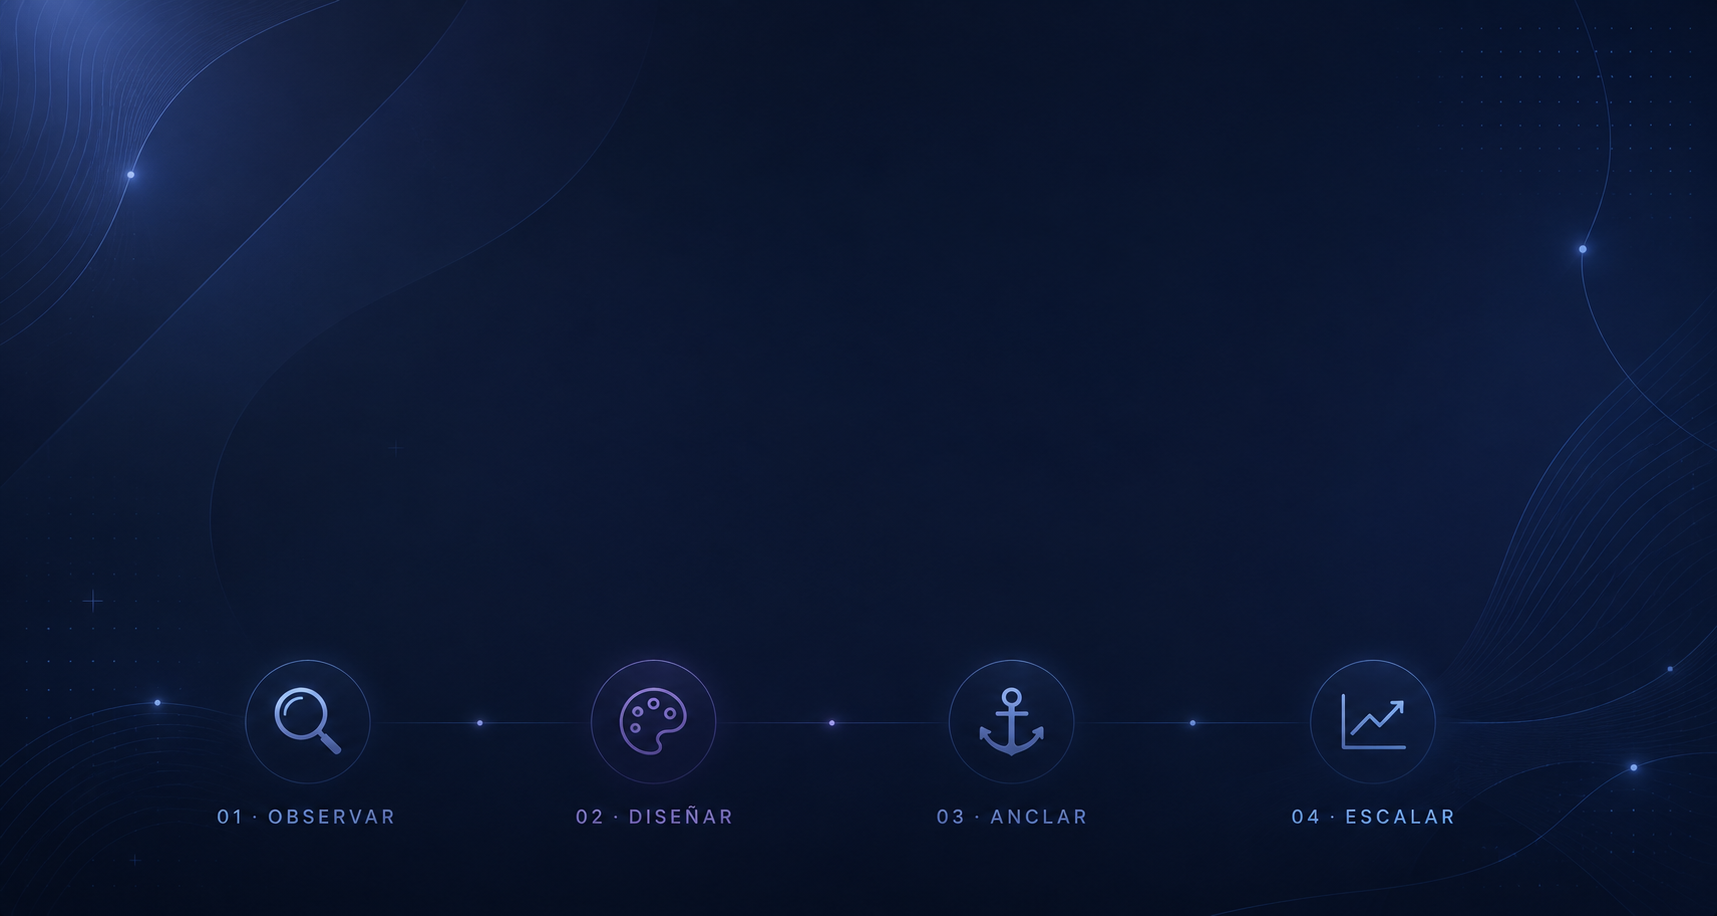
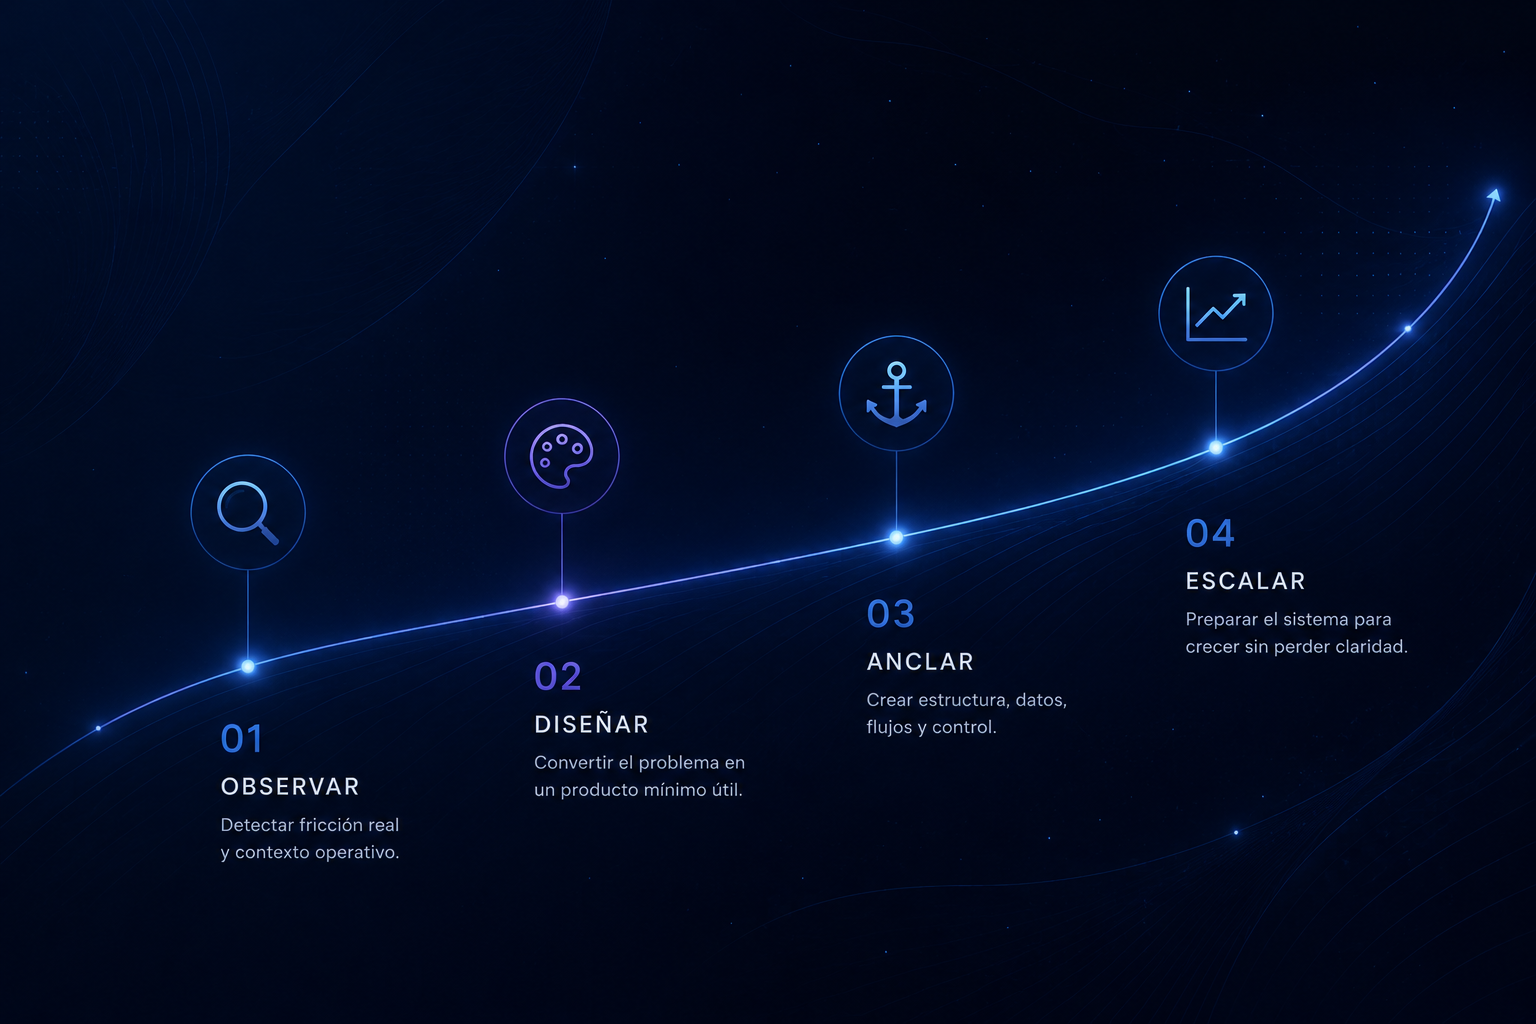
fix(landing): align Method section with final immersive background
Adopt the final background-metodo.png, which now bakes the full four-
phase narrative (icons, numerals, titles, descriptions, ascending
trajectory) directly into the artwork. Drop the last foreground phase
UI entirely — no captions, no cards — down to a screen-reader-only
phase list for accessibility. Remove the "FRAMEWORK OPERATIVO" eyebrow.
Title block now tracks the section's own left edge (not the centered
.container) and uses a localized upper-left veil only, so the four
milestones and trajectory stay fully lit at every breakpoint.

Claude-Session: https://claude.ai/code/session_01RU2gH1eBbhL7A3gLPKuVr1

diff --git a/src/styles/sections.css b/src/styles/sections.css
@@ -908,7 +908,8 @@
   font-size: 0.875rem;
 }
 
-/* Method: the route artwork is the protagonist; UI is a thin caption layer over it. */
+/* Method: the route artwork carries the full four-phase narrative; the only
+   foreground UI is the title block, parked in the artwork's own negative space. */
 .method-canvas {
   position: relative;
   isolation: isolate;
@@ -926,19 +927,18 @@
   background-image: url('/background-metodo.png');
   background-repeat: no-repeat;
   background-size: cover;
-  background-position: center bottom;
+  background-position: center center;
 }
 
-/* Selective readability veil: strong only behind the copy column, near-transparent over the icon route. */
+/* Localized veil: only the upper-left quadrant behind the title gets darkened;
+   the four milestones and ascending line stay untouched. */
 .method-canvas::before {
   content: '';
   position: absolute;
   inset: 0;
   z-index: -1;
   pointer-events: none;
-  background:
-    linear-gradient(100deg, rgba(10, 31, 61, 0.92) 0%, rgba(10, 31, 61, 0.64) 25%, rgba(10, 31, 61, 0.2) 46%, rgba(10, 31, 61, 0) 60%),
-    linear-gradient(180deg, rgba(10, 31, 61, 0.1) 0%, rgba(10, 31, 61, 0) 20%, rgba(10, 31, 61, 0) 76%, rgba(10, 31, 61, 0.5) 94%, rgba(10, 31, 61, 0.68) 100%);
+  background: radial-gradient(ellipse 620px 480px at 0% 0%, rgba(10, 31, 61, 0.65) 0%, rgba(10, 31, 61, 0.32) 55%, rgba(10, 31, 61, 0) 85%);
 }
 
 .method-canvas__inner {
@@ -947,56 +947,30 @@
   width: 100%;
   min-height: inherit;
   padding-block: clamp(56px, 8vh, 96px);
+  padding-inline-start: clamp(24px, 6vw, 88px);
+  padding-inline-end: var(--space-3);
 }
 
-.method-canvas__intro { max-width: 480px; }
-.method-canvas__eyebrow { display: block; margin-bottom: 18px; color: var(--signal-blue); letter-spacing: 0.15em; font-size: 0.7rem; }
-.method-canvas h2 { font-size: clamp(2.5rem, 4vw, 4.5rem); line-height: 0.98; color: var(--white-deck); }
-.method-canvas__lead { margin-top: 22px; max-width: 40ch; color: var(--white-deck); font-size: clamp(1rem, 1.2vw, 1.1rem); line-height: 1.55; }
-.method-canvas__meta { margin-top: 26px; color: var(--harbor-mist); font-size: 0.68rem; letter-spacing: 0.08em; text-transform: uppercase; }
+.method-canvas__intro { max-width: min(400px, 32vw); }
+.method-canvas h2 { font-size: clamp(2.25rem, 3.4vw, 3.5rem); line-height: 1; color: var(--white-deck); }
+.method-canvas__lead { margin-top: 20px; max-width: 38ch; color: var(--white-deck); font-size: clamp(0.95rem, 1.1vw, 1.05rem); line-height: 1.55; }
+.method-canvas__meta { margin-top: 22px; color: var(--harbor-mist); font-size: 0.68rem; letter-spacing: 0.08em; text-transform: uppercase; }
 .method-canvas__meta span { margin-inline: 7px; color: var(--anclora-gold); }
 
-/* Lightweight captions, no card surfaces — aligned to the four icons baked into the artwork. */
-.method-phases { position: absolute; inset: 0; z-index: 1; list-style: none; margin: 0; padding: 0; pointer-events: none; }
-.method-phase { position: absolute; bottom: 3.6%; width: 17%; text-align: center; transform: translateX(-50%); }
-.method-phase:nth-child(1) { left: 17.9%; }
-.method-phase:nth-child(2) { left: 38%; }
-.method-phase:nth-child(3) { left: 58.5%; }
-.method-phase:nth-child(4) { left: 79.9%; }
-.method-phase__caption { margin: 0; color: var(--harbor-mist); font-size: 0.72rem; line-height: 1.4; letter-spacing: 0.01em; }
-
 @media (max-width: 899px) {
-  .method-canvas { min-height: calc(100dvh - var(--sticky-header-height)); flex-direction: column; }
-  .method-canvas__inner { min-height: 0; align-content: start; padding-block: 48px 16px; order: 1; }
-  /* Fit full image width so all four icons stay in frame; lift off the bottom edge to leave
-     room for the caption row so it doesn't collide with the artwork's own baked-in labels. */
-  .method-canvas__backdrop { background-size: 100% auto; background-position: center bottom 110px; }
-  .method-canvas::before {
-    background:
-      linear-gradient(180deg, rgba(10, 31, 61, 0.94) 0%, rgba(10, 31, 61, 0.86) 26%, rgba(10, 31, 61, 0.55) 48%, rgba(10, 31, 61, 0.15) 62%, rgba(10, 31, 61, 0.55) 92%, rgba(10, 31, 61, 0.72) 100%);
-  }
-  .method-canvas__intro { max-width: 600px; }
-  .method-canvas__meta { margin-top: 18px; }
-  .method-phases {
-    order: 2;
-    position: static;
-    display: grid;
-    grid-template-columns: repeat(2, minmax(0, 1fr));
-    gap: 14px 24px;
-    margin-top: auto;
-    padding: 24px var(--space-3) 32px;
-  }
-  .method-phase { position: static; width: auto; text-align: left; transform: none; }
+  .method-canvas { min-height: calc(100dvh - var(--sticky-header-height)); }
+  .method-canvas__inner { align-content: start; padding-block: 48px; }
+  /* Lock to full width so all four milestones stay in frame; height follows and
+     anchors to the bottom, since there is no foreground caption row to protect. */
+  .method-canvas__backdrop { background-size: 100% auto; background-position: center bottom; }
+  .method-canvas__intro { max-width: 480px; }
 }
 
 @media (max-width: 600px) {
-  .method-canvas__inner { padding-block: 32px 12px; }
-  .method-canvas__backdrop { background-size: 100% auto; background-position: center bottom 190px; }
-  .method-canvas h2 { font-size: clamp(2.4rem, 12vw, 3.4rem); }
-  .method-canvas__lead { margin-top: 14px; font-size: 0.94rem; }
-  .method-canvas__meta { margin-top: 14px; line-height: 1.8; }
-  .method-phases { grid-template-columns: 1fr; gap: 10px; padding: 16px 20px 20px; }
-  .method-phase__caption { text-align: left; font-size: 0.76rem; line-height: 1.3; }
+  .method-canvas__inner { padding-block: 40px; }
+  .method-canvas h2 { font-size: clamp(2.1rem, 10vw, 2.9rem); }
+  .method-canvas__lead { margin-top: 16px; font-size: 0.92rem; }
+  .method-canvas__meta { margin-top: 16px; line-height: 1.8; }
 }
 
 /* Founder — retrato duotono navy/plata en layout asimétrico: la foto no es un

diff --git a/src/sections/Method.tsx b/src/sections/Method.tsx
@@ -3,22 +3,20 @@ import { useRevealOnScroll } from '../hooks/useRevealOnScroll'
 
 export default function Method() {
   const { t } = useLocale()
-  const revealRef = useRevealOnScroll<HTMLOListElement>()
+  const revealRef = useRevealOnScroll<HTMLDivElement>()
 
   return (
     <section id="method" className="method-canvas" aria-labelledby="method-title">
       <div className="method-canvas__backdrop" aria-hidden="true" />
-      <ol ref={revealRef} className="method-phases is-reveal-group" aria-label="Las cuatro fases del Método Anclora">
+      <ol className="visually-hidden" aria-label="Las cuatro fases del Método Anclora">
         {t.method.steps.map((step, index) => (
-          <li key={step.title} className="method-phase">
-            <span className="visually-hidden">{String(index + 1).padStart(2, '0')}. {step.title}: </span>
-            <p className="method-phase__caption" aria-hidden="true">{step.description}</p>
+          <li key={step.title}>
+            {String(index + 1).padStart(2, '0')}. {step.title}: {step.description}
           </li>
         ))}
       </ol>
-      <div className="container method-canvas__inner">
-        <div className="method-canvas__intro">
-          <span className="method-canvas__eyebrow mono">FRAMEWORK OPERATIVO</span>
+      <div className="method-canvas__inner">
+        <div ref={revealRef} className="method-canvas__intro is-reveal-group">
           <h2 id="method-title">{t.method.title}</h2>
           <p className="method-canvas__lead">
             Un sistema de trabajo en cuatro fases para convertir fricción real en productos claros, estructurados y escalables.
